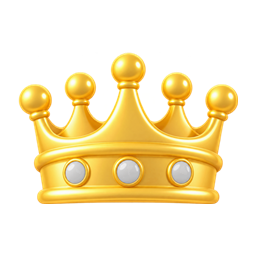
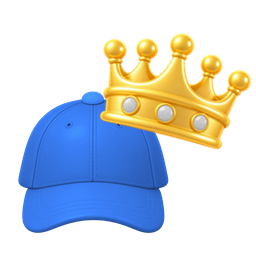
Version 2: badebold, niveauer og konfetti i spillet; små ønsker

diff --git a/version2/index.html b/version2/index.html
@@ -50,7 +50,6 @@
     .parts { flex-direction: row; overflow-x: auto; flex: none; scrollbar-width: none; }
     .tabgroup { flex-wrap: nowrap; flex: none; }
     .tabgroup button { width: 54px; flex: none; }
-    .stage .top { display: none; }
   }
   /* the name tab: the name written in a box, the badges as round buttons under it (as in the app) */
   .namebox { display: flex; flex-direction: column; align-items: center; gap: 8px; }
@@ -71,6 +70,13 @@
   .top { position: absolute; top: 10px; left: 10px; right: 10px; display: flex; justify-content: center; pointer-events: none; }
   .tag { background: var(--tile); border: 2px solid var(--line); border-radius: 14px; padding: 5px 9px; font-weight: 700; font-size: 12px; }
   .tag:empty { display: none; }
+  .info-btn { position: absolute; top: 10px; right: 10px; z-index: 2; width: 34px; height: 34px; border-radius: 50%; border: 2px solid var(--line); background: var(--tile); color: var(--accent);
+    font: italic 800 18px/1 Georgia, serif; cursor: pointer; box-shadow: 0 2px 8px rgba(58, 46, 92, .15); }
+  .info-pop { position: absolute; top: 52px; right: 10px; z-index: 2; max-width: calc(100% - 20px); background: var(--tile); border-radius: 14px; padding: 8px 12px;
+    font: 700 14px/1.3 system-ui, sans-serif; box-shadow: 0 4px 14px rgba(58, 46, 92, .2); }
+  .info-btn[hidden], .info-pop[hidden], .stage.playing .info-btn, .stage.playing .info-pop { display: none; }
+  /* (on a computer the mouse shows it can zoom the figure - the wheel - and grabs it while turning it) */
+  @media (hover: hover) and (pointer: fine) { #scene { cursor: zoom-in; } #scene:active { cursor: grabbing; } .stage.playing #scene { cursor: pointer; } }
   /* saving: the star, Mine figurer, the new MiniMig and the camera - first of the groups on the right, as tabs with
      their sign for a picture (they sat on the figure's picture until 03-11-2026; the user wanted the picture clear) */
   .tabgroup button .emo { height: 32px; font-size: 25px; line-height: 32px; pointer-events: none; }
@@ -86,6 +92,7 @@
   @media (prefers-reduced-motion: no-preference) { .tap-hint { animation: nudge 1s ease-in-out infinite alternate; } }
   @keyframes nudge { to { transform: translateX(-50%) translateY(-6px); } }
   .top[hidden] { display: none; }
+  #confetti { position: absolute; inset: 0; width: 100%; height: 100%; pointer-events: none; z-index: 3; }
   @media (prefers-reduced-motion: no-preference) { .pop { animation: pop .5s ease; } }
   @keyframes pop { 40% { transform: scale(1.35) rotate(-12deg); } 100% { transform: none; } }
   .lock-badge { position: absolute; right: -4px; bottom: -4px; width: 22px; height: 22px; border-radius: 50%; background: #2FB872;
@@ -138,9 +145,13 @@
 <div id="bgFar" hidden></div><div id="bgNear" hidden></div>
 <canvas id="scene"></canvas>
 <div class="top"><span class="tag" id="tag">Henter figuren …</span></div>
+<!-- (on an iPad or a phone the hint as a small i in the top right corner, opened with a tap - the user, 03-11-2026) -->
+<button class="info-btn" id="infoBtn" aria-label="Sådan gør du" aria-expanded="false" hidden>i</button>
+<div class="info-pop" id="infoPop" hidden>Træk for at dreje · knib for at zoome</div>
 <!-- Hop over bolden: the stars won, and the cross that ends the game; a hint at the start -->
 <div class="hud" id="hud" hidden><span class="stars" id="stars">⭐ 0</span><button class="game-x" id="gameExit" aria-label="Stop spillet">✕</button></div>
 <div class="tap-hint" id="tapHint" hidden>👆 Tryk for at hoppe</div>
+<canvas id="confetti"></canvas>
 </div>
 <div class="panel">
   <div class="parts" id="parts"></div>
@@ -299,7 +310,7 @@ const apply = (part, c) => { picked[part] = c; recolour(part, c); if (part === '
 const iconButton = (src, label) => { const b = document.createElement('button'), i = new Image(); i.src = src; i.alt = ''; i.onerror = () => i.remove();
   const s = document.createElement('span'); s.textContent = label; b.append(i, s); return b; };
 // (the nose, the mouth and Pynt have no colour of their own, as in the app: no sliders under them - nor the movements)
-function showSwatches() { const move = partNow.startsWith('move-'); if (!move) slidersFrom(picked[partNow] || START[partNow]);
+function showSwatches() { const move = /^(move|game)-/.test(partNow); if (!move) slidersFrom(picked[partNow] || START[partNow]);
   document.getElementById('sliders').style.display = move || ['nose', 'mouth', 'pynt', 'name', 'ears', 'bg'].includes(partNow) ? 'none' : '';
   document.getElementById('nameBox').hidden = partNow !== 'name';
   document.querySelectorAll('#parts [data-part]').forEach(b => b.classList.toggle('on', b.dataset.part === partNow));
@@ -1054,7 +1065,7 @@ function smoothUnder() {
 // the movements: a tab for each kind, and its kinds in the box as the hairstyles are under Hår (the user, 03-11-2026).
 // Each a figur-<id>.json taken out of a Mixamo file (see LÆS-MIG), fetched the first time it is chosen
 const MOVES = { staa: [['staa', 'Stå']], vink: [['vink', 'Vink']],
-  hop: [['hop', 'Glad hop'], ['hop-hoejt', 'Højt hop'], ['hop-lille', 'Lille hop'], ['loebehop', 'Løbehop']],
+  hop: [['hop', 'Glad hop'], ['hop-hoejt', 'Højt hop'], ['hop-lille', 'Lille løbehop'], ['loebehop', 'Langt løbehop']],
   dans: [['dans', 'Hiphop'], ['dans-hiphop', 'Hiphop 2'], ['dans-fjollet', 'Fjollet'], ['dans-arme', 'Armdans'], ['dans-break', 'Breakdance'], ['dans-flair', 'Flair'], ['dans-flair2', 'Flair 2']],
   loeb: [['loeb', 'Sjovt løb'], ['loeb-a', 'Løb stærkt'], ['loeb-b', 'Løb']],
   jubel: [['jubel', 'Jubel'], ['jubel-klap', 'Klap'], ['jubel-yes', 'Yes!']],
@@ -1400,7 +1411,7 @@ async function loadHair(name, list = hairTexs, colourPart = 'hair', extra = {}) 
   body.parent.add(hair); hair.bind(body.skeleton, body.bindMatrix); scalpCap(hair, g, W, earLines, apart, eyeY); if (picked[colourPart]) recolourHair(picked[colourPart], list); return hair; }
 var styleLists = () => ({ hair: [HAIRS, hairNow, setHair], eyes: [EYES, eyesNow, setEyes], brows: [BROWS, browsNow, setBrows], mouth: [MOUTHS, mouthNow, setMouth], pynt: [PYNT, pyntNow.map(k => 'pynt-' + k), setPynt], nose: [NOSES, noseNow, setNose], item: [ITEMS, itemNow, setItem], bg: [BGS, bgNow, setBg], ears: [EARS, earsNow, setEars, [EARRINGS, earringsNow, setEarrings, 'oerering']],
   ...Object.fromEntries(Object.entries(GARMENTS).map(([part, G]) => [part, [G.items, G.now, n => setGarment(part, n)]])),
-  ...Object.fromEntries(Object.entries(MOVES).map(([g, list]) => ['move-' + g, [list, moveNow[g], playMove]])) });
+  ...Object.fromEntries(Object.entries(MOVES).map(([g, list]) => ['move-' + g, [list, moveNow[g], playMove]])), 'game-hop': gameList() });
 async function setHair(name) {
   hairNow = name; renderStyles();
   if (name && !hairMeshes[name]) hairMeshes[name] = await loadHair(name);
@@ -2669,42 +2680,67 @@ function kickSetup(id) { const clip = glbActions[id].getClip();
   const foot = track.reduce((a, b) => Math.max(...b.map(p => p.z)) > Math.max(...a.map(p => p.z)) ? b : a);
   let best = 1, speed = -1; for (let k = 1; k <= n; k++) { const v = foot[k].z - foot[k - 1].z; if (v > speed) { speed = v; best = k; } }
   if (!kick.ball) { kick.ball = makeItem('fodbold'); kick.ball.group.scale.setScalar(.75); scene.remove(kick.ball.group); holder.add(kick.ball.group); }
-  kicks[id] = { contact: kick.pre + len * best / n, rest: new THREE.Vector3(foot[best].x, kick.r, foot[best].z + kick.r * .6), side: Math.sign(foot[best].x) || 1 }; }
+  kicks[id] = { contact: kick.pre + len * best / n, rest: new THREE.Vector3(foot[best].x, kick.r, foot[best].z + kick.r * .6), side: Math.sign(foot[best].x) || 1 };
+  // (which way the head looks, in its own turn: measured standing straight, looking ahead - the kick's own start looks down)
+  if (!kick.headFwd && bone('Head') && glbActions.staa) { sample('staa', 0); kick.headFwd = new THREE.Vector3(0, 0, 1).applyQuaternion(bone('Head').getWorldQuaternion(new THREE.Quaternion()).invert()); } }
+// (the head follows the ball with the eyes - the user, 03-11-2026: in Mixamo's kick it jerked up at every kick - turned
+// towards the ball as far as a neck turns, w how much)
+const hq = new THREE.Quaternion(), pq = new THREE.Quaternion(), dq = new THREE.Quaternion(), noTurn = new THREE.Quaternion(), hp = new THREE.Vector3(), bp = new THREE.Vector3(), fNow = new THREE.Vector3();
+function lookAtBall(g, w) { const head = bone('Head'); if (!head || !kick.headFwd || w <= 0) return; glb.updateMatrixWorld(true);
+  head.getWorldPosition(hp); head.getWorldQuaternion(hq); g.getWorldPosition(bp); fNow.copy(kick.headFwd).applyQuaternion(hq);
+  dq.setFromUnitVectors(fNow, bp.sub(hp).normalize()); const angle = 2 * Math.acos(Math.min(1, Math.abs(dq.w))), part = w * Math.min(1, 1.1 / Math.max(angle, 1e-3));
+  dq.slerp(noTurn, 1 - part); head.parent.getWorldQuaternion(pq); head.quaternion.premultiply(pq.clone().invert().multiply(dq).multiply(pq)); }
 function kickBall(dt) { const b = kick.ball; if (!b) return; const k = kicks[anim], a = glbActions[anim], on = !!k && a?.isRunning(); b.group.visible = on; if (!on) return;
   const t = a.time, g = b.group, r = kick.r, { rest, side, contact } = k;
   if (t < contact) { // (rolling in from the kicking foot's side, slowing down, turning as it rolls)
     const s = Math.max(0, 1 - t / (contact * .85)), d = 2.2 * s * s * side; g.position.set(rest.x + d, r, rest.z); g.rotation.set(0, 0, d / r); }
   else { const s = t - contact; // (off up and out, towards the one looking and a little across, spinning)
     g.position.set(rest.x - 1.2 * s * side, Math.max(r, r + 3.2 * s - 4.4 * s * s), rest.z + 4.5 * s); g.rotation.x += dt * 14; }
-  if (glb) g.position.applyAxisAngle(yAxis, glb.rotation.y); }
+  if (glb) g.position.applyAxisAngle(yAxis, glb.rotation.y);
+  // (eyes on the ball from when it rolls in until it is away, easing in and out)
+  lookAtBall(g, .85 * Math.min(1, t / .4) * Math.max(0, Math.min(1, 1 - (t - contact - 1) / .4))); }
 
 // ---- Hop over bolden: the first little game (03-11-2026) ----
 // The figure runs on the spot, seen from the side; footballs roll in from the right. A tap on the figure's picture (or
 // the space bar) jumps - Mixamo's Running Jump with a lift on top, high enough to clear a ball. Cleared: a star. Hit:
 // it stumbles and runs on - no losing, it is for 3-6 year olds. Every fifth star it cheers. Slow at first, a little
 // quicker with each star. Runs in the figure's own clothes, hair and thing in the hand
-const GAME = { run: 'loeb-b', jump: 'loebehop', trip: 'snubl', cheer: 'jubel', x: -.25, camX: .55, camY: 1.55, dist: 10, jumpFor: .95, high: .65, ball: .9 };
-const game = { on: false, stars: 0, balls: [], pool: [], jumpT: -1, busy: 0, cheer: 0, next: 0, hint: 0, saved: null };
+// (the balls: big beach balls, about twice the football - the user, 03-11-2026 - so the jump is higher and a little
+// longer. Levels, chosen in the box under the game's tab: how quick the balls roll and how often they come, each a
+// little quicker with every star up to its top)
+const GAME = { run: 'loeb-b', jump: 'loebehop', trip: 'snubl', cheer: 'jubel', x: -.25, camX: .55, camY: 1.55, dist: 10, jumpFor: 1.05, high: 1.05, r: .28 };
+const LEVELS = [['niveau-let', 'Let', { speed: 1.2, top: 1.8, gap: 3.2 }], ['niveau-mellem', 'Mellem', { speed: 1.6, top: 2.5, gap: 2.5 }], ['niveau-svaer', 'Svær', { speed: 2.2, top: 3.2, gap: 1.8 }]];
+const game = { on: false, level: 'niveau-let', stars: 0, balls: [], pool: [], jumpT: -1, busy: 0, cheer: 0, next: 0, hint: 0, saved: null };
+// (a beach ball: segments in four bright colours and white, a white cap at each end - drawn once for all four balls)
+let beachMat = null;
+function beachBall() { if (!beachMat) { const cv = document.createElement('canvas'); cv.width = 512; cv.height = 256; const c = cv.getContext('2d'), cols = ['#E8384F', '#FFFFFF', '#3D8BFF', '#FFFFFF', '#FFC233', '#FFFFFF', '#2FB872', '#FFFFFF'];
+    cols.forEach((col, i) => { c.fillStyle = col; c.fillRect(i * 64, 0, 64, 256); }); c.fillStyle = '#FFFFFF'; c.fillRect(0, 0, 512, 22); c.fillRect(0, 234, 512, 22);
+    const t = new THREE.CanvasTexture(cv); t.colorSpace = THREE.SRGBColorSpace; beachMat = new THREE.MeshStandardMaterial({ map: t, roughness: .3 }); }
+  const g = new THREE.Group(), m = new THREE.Mesh(new THREE.SphereGeometry(GAME.r, 40, 28), beachMat); m.castShadow = true; m.rotation.x = Math.PI / 2; g.add(m); g.visible = false; scene.add(g); return { group: g }; }
+function setLevel(id) { game.level = id; renderStyles(); if (game.on) { stopGame(true); startGame(); } else startGame(); }
 const hud = document.getElementById('hud'), starsEl = document.getElementById('stars'), hintEl = document.getElementById('tapHint');
-function startGame() { if (game.on || !glb) return; game.on = true; Object.assign(game, { stars: 0, jumpT: -1, busy: 0, cheer: 0, next: 1.5, hint: 4 });
-  game.saved = { cam: camera.position.clone(), target: controls.target.clone(), anim, bg: bgNow, spin }; spin = false; document.getElementById('spin').classList.remove('on');
+function startGame() { if (game.on || !glb) return; const restart = !!game.saved && holder.position.x === GAME.x; game.on = true; Object.assign(game, { stars: 0, jumpT: -1, busy: 0, cheer: 0, next: 1.5, hint: 4 });
+  if (!restart) game.saved = { cam: camera.position.clone(), target: controls.target.clone(), anim, bg: bgNow, spin }; spin = false; document.getElementById('spin').classList.remove('on');
   goal = null; closeUp = false; controls.enabled = false; controls.maxDistance = 12; holder.position.x = GAME.x;
   // (the plain sun has no ground to run on: the football field then, until the game stops)
   if (bgNow === 'bg-sol') setBg('bg-fodboldbane');
   // (four balls made once and used again - each is a drawn picture, too slow to make for every ball)
-  while (game.pool.length < 4) { const b = makeItem('fodbold'); b.group.scale.setScalar(GAME.ball); game.pool.push(b); }
+  while (game.pool.length < 4) game.pool.push(beachBall());
   Promise.all([GAME.run, GAME.jump, GAME.trip, GAME.cheer].map(loadMove)).then(() => { if (game.on) runAnim(GAME.run); });
-  hud.hidden = false; hintEl.hidden = false; document.querySelector('.top').hidden = true; showStars(); document.querySelectorAll('[data-game]').forEach(b => b.classList.add('on')); }
-function stopGame() { if (!game.on) return; game.on = false; for (const b of game.pool) b.group.visible = false; game.balls = []; holder.position.x = 0;
-  hud.hidden = true; hintEl.hidden = true; document.querySelector('.top').hidden = false; document.querySelectorAll('[data-game]').forEach(b => b.classList.remove('on'));
+  hud.hidden = false; hintEl.hidden = false; document.querySelector('.top').hidden = true; document.getElementById('stage').classList.add('playing'); showStars(); document.querySelectorAll('[data-game]').forEach(b => b.classList.add('on')); }
+// (again: only stopped to start at another level - the figure's own setting not put back yet)
+function stopGame(again) { if (!game.on) return; game.on = false; for (const b of game.pool) b.group.visible = false; game.balls = []; confetti.length = 0;
+  if (again) { game.on = false; return; } holder.position.x = 0;
+  hud.hidden = true; hintEl.hidden = true; document.querySelector('.top').hidden = false; document.getElementById('stage').classList.remove('playing'); document.querySelectorAll('[data-game]').forEach(b => b.classList.remove('on'));
   if (game.saved.bg !== bgNow) setBg(game.saved.bg); camera.position.copy(game.saved.cam); controls.target.copy(game.saved.target); controls.enabled = true; controls.maxDistance = 10;
   if (game.saved.spin) document.getElementById('spin').click(); playMove(game.saved.anim); }
 // (a movement within the game: quicker change, and the jump, the stumble and the cheer once each, not over and over)
 function runAnim(id, once) { const a = glbActions[id]; if (!a) return; anim = id; Object.values(glbActions).forEach(x => x !== a && x.fadeOut(.15));
   a.reset(); a.setLoop(once ? THREE.LoopOnce : THREE.LoopRepeat, Infinity); a.clampWhenFinished = !!once; a.fadeIn(.15).play(); }
-function jump() { if (!game.on || game.jumpT >= 0 || game.busy || game.cheer || !glbActions[GAME.jump]) return; game.jumpT = 0; game.hint = 0; runAnim(GAME.jump, true); }
+function jump() { if (!game.audio) try { game.audio = new (window.AudioContext || window.webkitAudioContext)(); } catch (e) { game.audio = null; } game.audio?.resume?.();
+  if (!game.on || game.jumpT >= 0 || game.busy || game.cheer || !glbActions[GAME.jump]) return; game.jumpT = 0; game.hint = 0; runAnim(GAME.jump, true); }
 function showStars(pop) { starsEl.textContent = '⭐ ' + game.stars; if (pop) { starsEl.classList.remove('pop'); void starsEl.offsetWidth; starsEl.classList.add('pop'); } }
-function gameTick(dt) { if (!game.on || !glb) return; const r = .158 * GAME.ball, figX = GAME.x;
+function gameTick(dt) { confettiTick(dt); if (!game.on || !glb) return; const r = GAME.r, figX = GAME.x, L = LEVELS.find(l => l[0] === game.level)[2];
   // (seen from the side, the figure facing the balls - turned to look out at the one playing when it cheers)
   glb.rotation.y = game.cheer ? .3 : Math.PI / 2;
   // (a wide picture - a phone held upright gives one - from nearer: the figure was small in it)
@@ -2717,20 +2753,44 @@ function gameTick(dt) { if (!game.on || !glb) return; const r = .158 * GAME.ball
   if (game.busy && (game.busy -= dt) <= 0) { game.busy = 0; runAnim(GAME.run); }
   if (game.cheer && (game.cheer -= dt) <= 0) { game.cheer = 0; runAnim(GAME.run); }
   // (a new ball now and then - never while it cheers - a little sooner and quicker with more stars)
-  const speed = Math.min(2.4, 1.4 + game.stars * .05);
-  if (!game.cheer && (game.next -= dt) <= 0) { const b = game.pool.find(p => !p.group.visible); if (b) { game.next = 2.3 + Math.random() * 1.6 - Math.min(.8, game.stars * .04);
+  const speed = Math.min(L.top, L.speed + game.stars * .04);
+  if (!game.cheer && (game.next -= dt) <= 0) { const b = game.pool.find(p => !p.group.visible); if (b) { game.next = L.gap + Math.random() * 1.4 - Math.min(L.gap * .3, game.stars * .03);
     Object.assign(b, { vx: -speed, vy: 0, hit: false, done: false }); b.group.position.set(right, r, 0); b.group.visible = true; game.balls.push(b); } }
   for (const b of [...game.balls]) { const p = b.group.position; p.x += b.vx * dt; b.group.rotation.z -= b.vx * dt / r;
     if (b.hit) { b.vy -= 9.8 * dt; p.y += b.vy * dt; if (p.y < r) { p.y = r; b.vy *= -.45; } }
     // (it clears the ball when the feet are over it as it passes - forgiving: the ball counts a little smaller than it is)
-    if (!b.done && Math.abs(p.x - figX) < .18 && lift < .2) { b.hit = b.done = true; b.vx = 1.4; b.vy = 2.6; game.jumpT = -1; game.busy = 1.1; runAnim(GAME.trip, true); }
-    if (!b.done && p.x < figX - .25) { b.done = true; game.stars++; showStars(true); if (game.stars % 5 === 0) { game.cheer = 2.6; runAnim(GAME.cheer); } }
+    if (!b.done && Math.abs(p.x - figX) < .24 && lift < .42) { b.hit = b.done = true; b.vx = 1.4; b.vy = 2.6; game.jumpT = -1; game.busy = 1.1; runAnim(GAME.trip, true); }
+    if (!b.done && p.x < figX - .35) { b.done = true; game.stars++; showStars(true); if (game.stars % 5 === 0) { game.cheer = 2.8; runAnim(GAME.cheer); celebrate(); } }
     if (p.x < left || p.x > right + .5) { b.group.visible = false; game.balls.splice(game.balls.indexOf(b), 1); } } }
 document.getElementById('stage').addEventListener('pointerdown', e => { if (game.on && !e.target.closest('button')) { e.preventDefault(); jump(); } });
 addEventListener('keydown', e => { if (game.on && e.code === 'Space' && !/INPUT/.test(e.target.tagName)) { e.preventDefault(); jump(); } });
-document.getElementById('gameExit').onclick = stopGame;
-document.querySelectorAll('[data-game]').forEach(b => b.onclick = () => game.on ? stopGame() : startGame());
-loadFbx().then(ok => { document.getElementById('tag').textContent = ok ? 'Version 2 · træk for at dreje, knib for at zoome' : 'Figuren kunne ikke hentes'; });
+document.getElementById('gameExit').onclick = () => stopGame();
+// (the game's tab starts it and shows its levels in the box, as a movement's tab shows its kinds)
+document.querySelectorAll('[data-game]').forEach(b => b.onclick = () => { partNow = 'game-' + b.dataset.game; showSwatches(); startGame(); });
+function gameList() { try { return [LEVELS, game.level, setLevel]; } catch (e) { return null; } }
+// Every fifth star: confetti shot up from two cannons at the bottom corners of the picture, with little stars among it,
+// and a short ta-da (only once the child has tapped: a page may not sound before that)
+const confetti = [], confCv = document.getElementById('confetti'), confCx = confCv.getContext('2d'), CONF_COLS = ['#E8384F', '#3D8BFF', '#FFC233', '#2FB872', '#FF6FB1', '#7C5CFF'];
+function celebrate() { const st = document.getElementById('stage'), W = st.clientWidth, H = st.clientHeight, dpr = Math.min(2, devicePixelRatio || 1);
+  confCv.width = W * dpr; confCv.height = H * dpr; confCx.setTransform(dpr, 0, 0, dpr, 0, 0);
+  for (const side of [-1, 1]) for (let k = 0; k < 70; k++) confetti.push({ x: side < 0 ? 10 : W - 10, y: H - 10, vx: -side * (120 + Math.random() * 320), vy: -(H * .9 + Math.random() * H * .7),
+    a: Math.random() * 6, va: (Math.random() - .5) * 14, col: CONF_COLS[k % CONF_COLS.length], star: Math.random() < .22, life: 2.6 + Math.random() * .8, s: 6 + Math.random() * 6 });
+  const au = game.audio; if (au) { const t0 = au.currentTime; [523, 659, 784, 1047].forEach((f, i) => { const o = au.createOscillator(), g = au.createGain(); o.type = 'triangle'; o.frequency.value = f;
+    g.gain.setValueAtTime(0, t0 + i * .11); g.gain.linearRampToValueAtTime(.16, t0 + i * .11 + .02); g.gain.exponentialRampToValueAtTime(.001, t0 + i * .11 + (i === 3 ? .7 : .25));
+    o.connect(g).connect(au.destination); o.start(t0 + i * .11); o.stop(t0 + i * .11 + .75); }); } }
+function confettiTick(dt) { if (!confetti.length && !confCv.dataset.drawn) return; const W = confCv.width, H = confCv.height; confCx.clearRect(0, 0, W, H); confCv.dataset.drawn = confetti.length ? '1' : '';
+  for (let i = confetti.length - 1; i >= 0; i--) { const p = confetti[i]; p.life -= dt; if (p.life <= 0) { confetti.splice(i, 1); continue; }
+    p.vy += 900 * dt; p.vx *= 1 - 1.2 * dt; p.vy *= 1 - .6 * dt; p.x += p.vx * dt; p.y += p.vy * dt; p.a += p.va * dt;
+    confCx.save(); confCx.globalAlpha = Math.min(1, p.life / .6); confCx.translate(p.x, p.y); confCx.rotate(p.a); confCx.fillStyle = p.star ? '#FFC233' : p.col;
+    if (p.star) { confCx.beginPath(); for (let k = 0; k < 10; k++) { const r = k % 2 ? p.s * .45 : p.s * 1.1, an = k * Math.PI / 5 - Math.PI / 2; confCx.lineTo(r * Math.cos(an), r * Math.sin(an)); } confCx.fill(); }
+    else confCx.fillRect(-p.s / 2, -p.s * .35, p.s, p.s * .7); confCx.restore(); } }
+// (once the figure is in: on a computer the hint stays as a line at the top, for the mouse; on a touch screen it goes into
+// the i in the corner)
+const infoBtn = document.getElementById('infoBtn'), infoPop = document.getElementById('infoPop'); let infoTimer = 0;
+infoBtn.onclick = () => { infoPop.hidden = !infoPop.hidden; infoBtn.setAttribute('aria-expanded', String(!infoPop.hidden)); clearTimeout(infoTimer); if (!infoPop.hidden) infoTimer = setTimeout(() => { infoPop.hidden = true; infoBtn.setAttribute('aria-expanded', 'false'); }, 5000); };
+loadFbx().then(ok => { const tag = document.getElementById('tag'); if (!ok) { tag.textContent = 'Figuren kunne ikke hentes'; return; }
+  if (matchMedia('(hover: hover) and (pointer: fine)').matches) tag.textContent = 'Version 2 · træk for at dreje, rul med musen for at zoome';
+  else { tag.textContent = ''; infoBtn.hidden = false; } });
 
 // ---- render loop ----
 const clock = new THREE.Clock();
